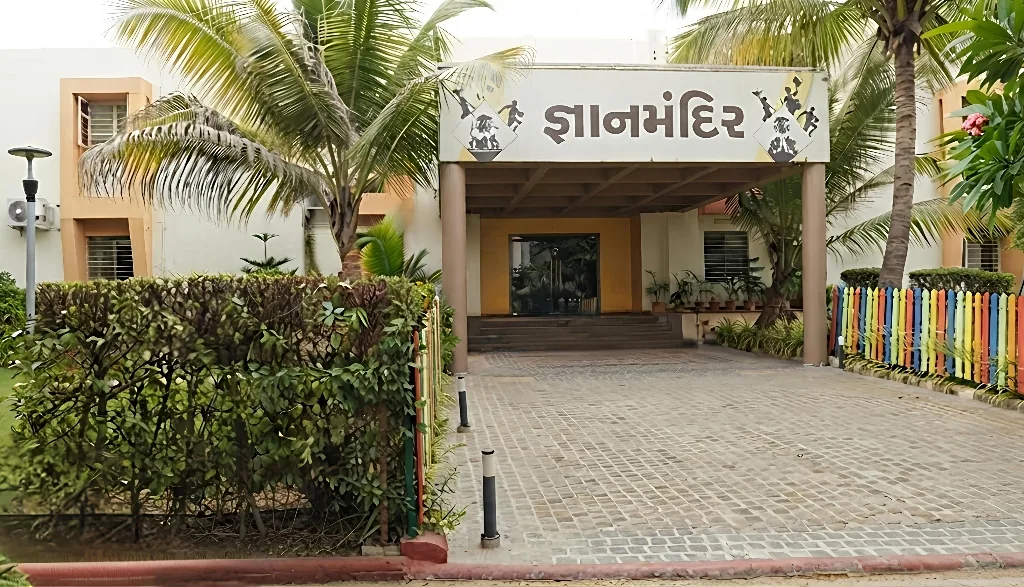
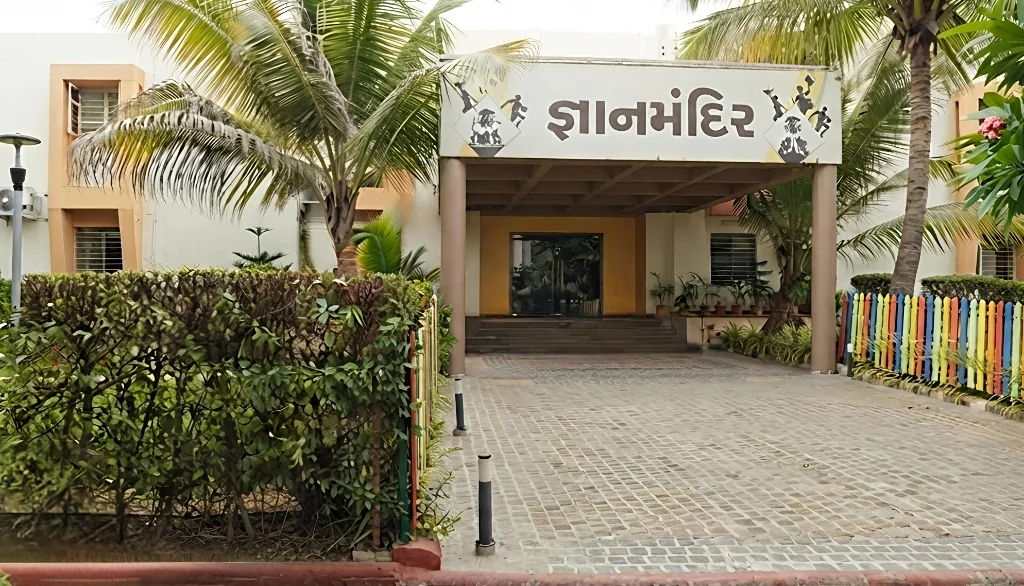
feat(ui): update campus background with new photo and v2 cache busting

diff --git a/index.html b/index.html
@@ -6,7 +6,7 @@
     <link rel="icon" type="image/x-icon" href="/favicon.ico?v=2" />
     <link rel="apple-touch-icon" href="/apple-touch-icon-v2.png" />
     <link rel="manifest" href="/manifest.json?v=2" />
-    <link rel="preload" as="image" href="/campus.webp" fetchpriority="high" type="image/webp" />
+    <link rel="preload" as="image" href="/campus.webp?v=2" fetchpriority="high" type="image/webp" />
     <meta name="theme-color" content="#ffffff" />
     <meta name="apple-mobile-web-app-capable" content="yes" />
     <meta name="apple-mobile-web-app-status-bar-style" content="default" />

diff --git a/src/components/LoginPage.tsx b/src/components/LoginPage.tsx
@@ -2,7 +2,7 @@ import React, { useState, useRef, useEffect, useMemo } from 'react';
 import { Student, Order } from '../types';
 import { INITIAL_STUDENTS } from '../data/students';
 import familyFiestaLogo from '../assets/images/family_fiesta_logo_new.png';
-const campusBg = '/campus.webp';
+const campusBg = '/campus.webp?v=2';
 import { formatNameDisplay } from '../utils/nameFormatter';
 import { parseActivePhases, isPhaseActive } from '../utils/phaseUtils';
 import { AlertCircle, User, Info, Calendar, ShieldAlert } from 'lucide-react';
